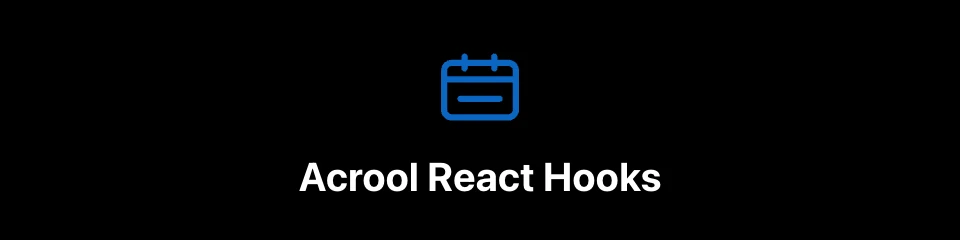
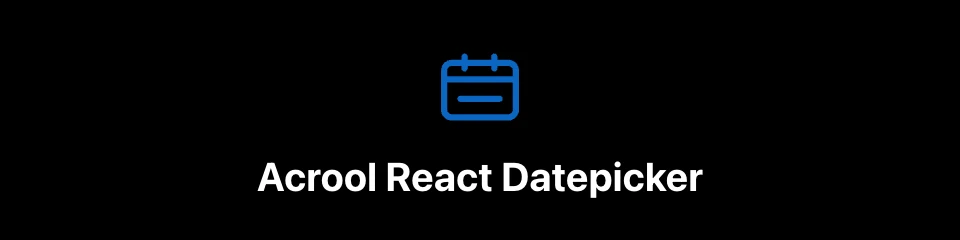
modify example

Changed region(s): [[0.25, 0.6708, 0.75, 0.8167]]

diff --git a/example/src/components/Banner/Banner.tsx b/example/src/components/Banner/Banner.tsx
@@ -33,7 +33,7 @@ const Banner = ({
 
 
     const repositoryUrl = 'https://github.com/acrool/acrool-react-hooks';
-    const name = 'Acrool React Hooks';
+    const name = 'Acrool React Datepicker';
 
 
     return <BannerRoot className={className}>
